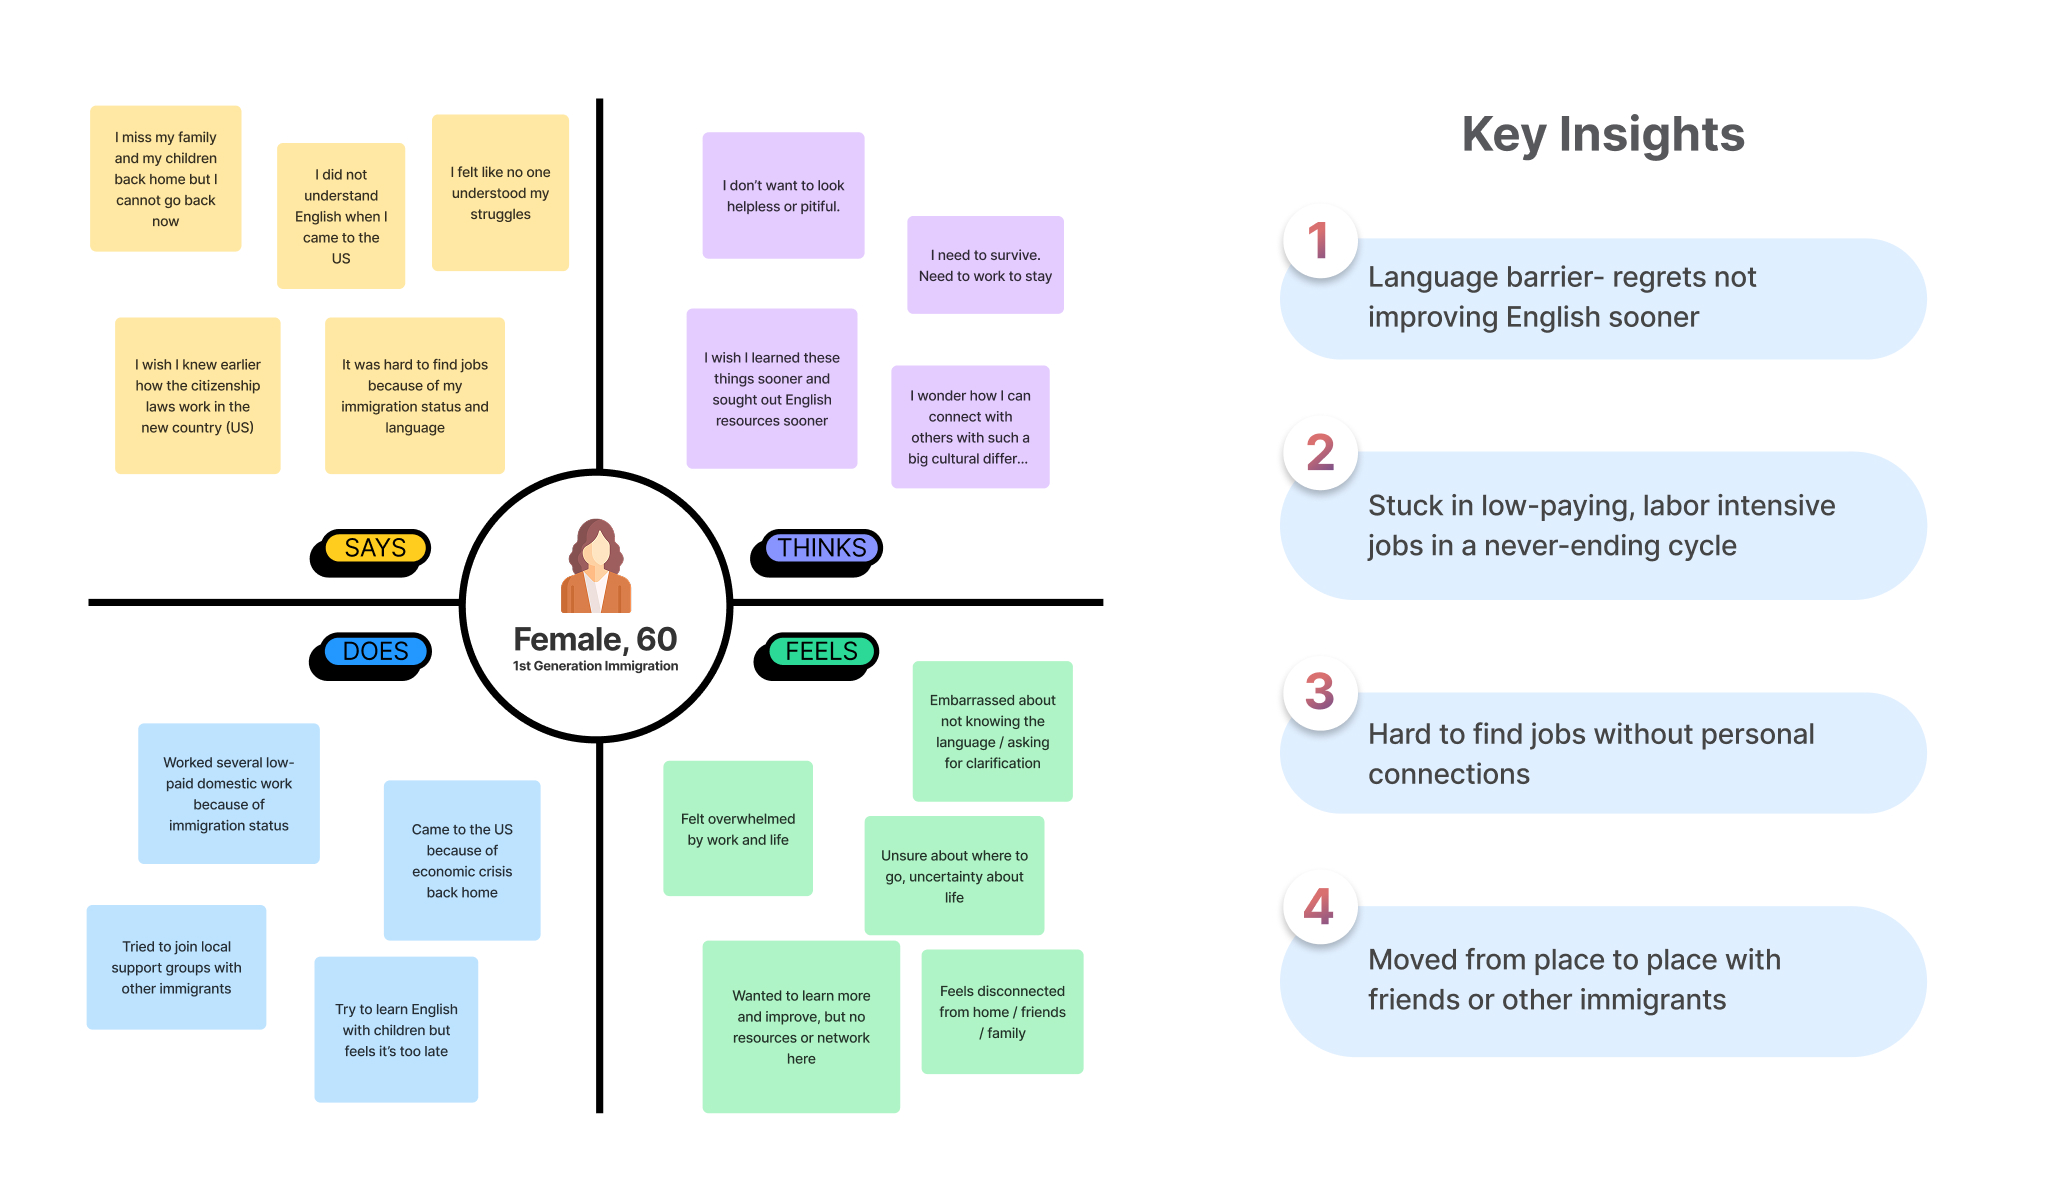
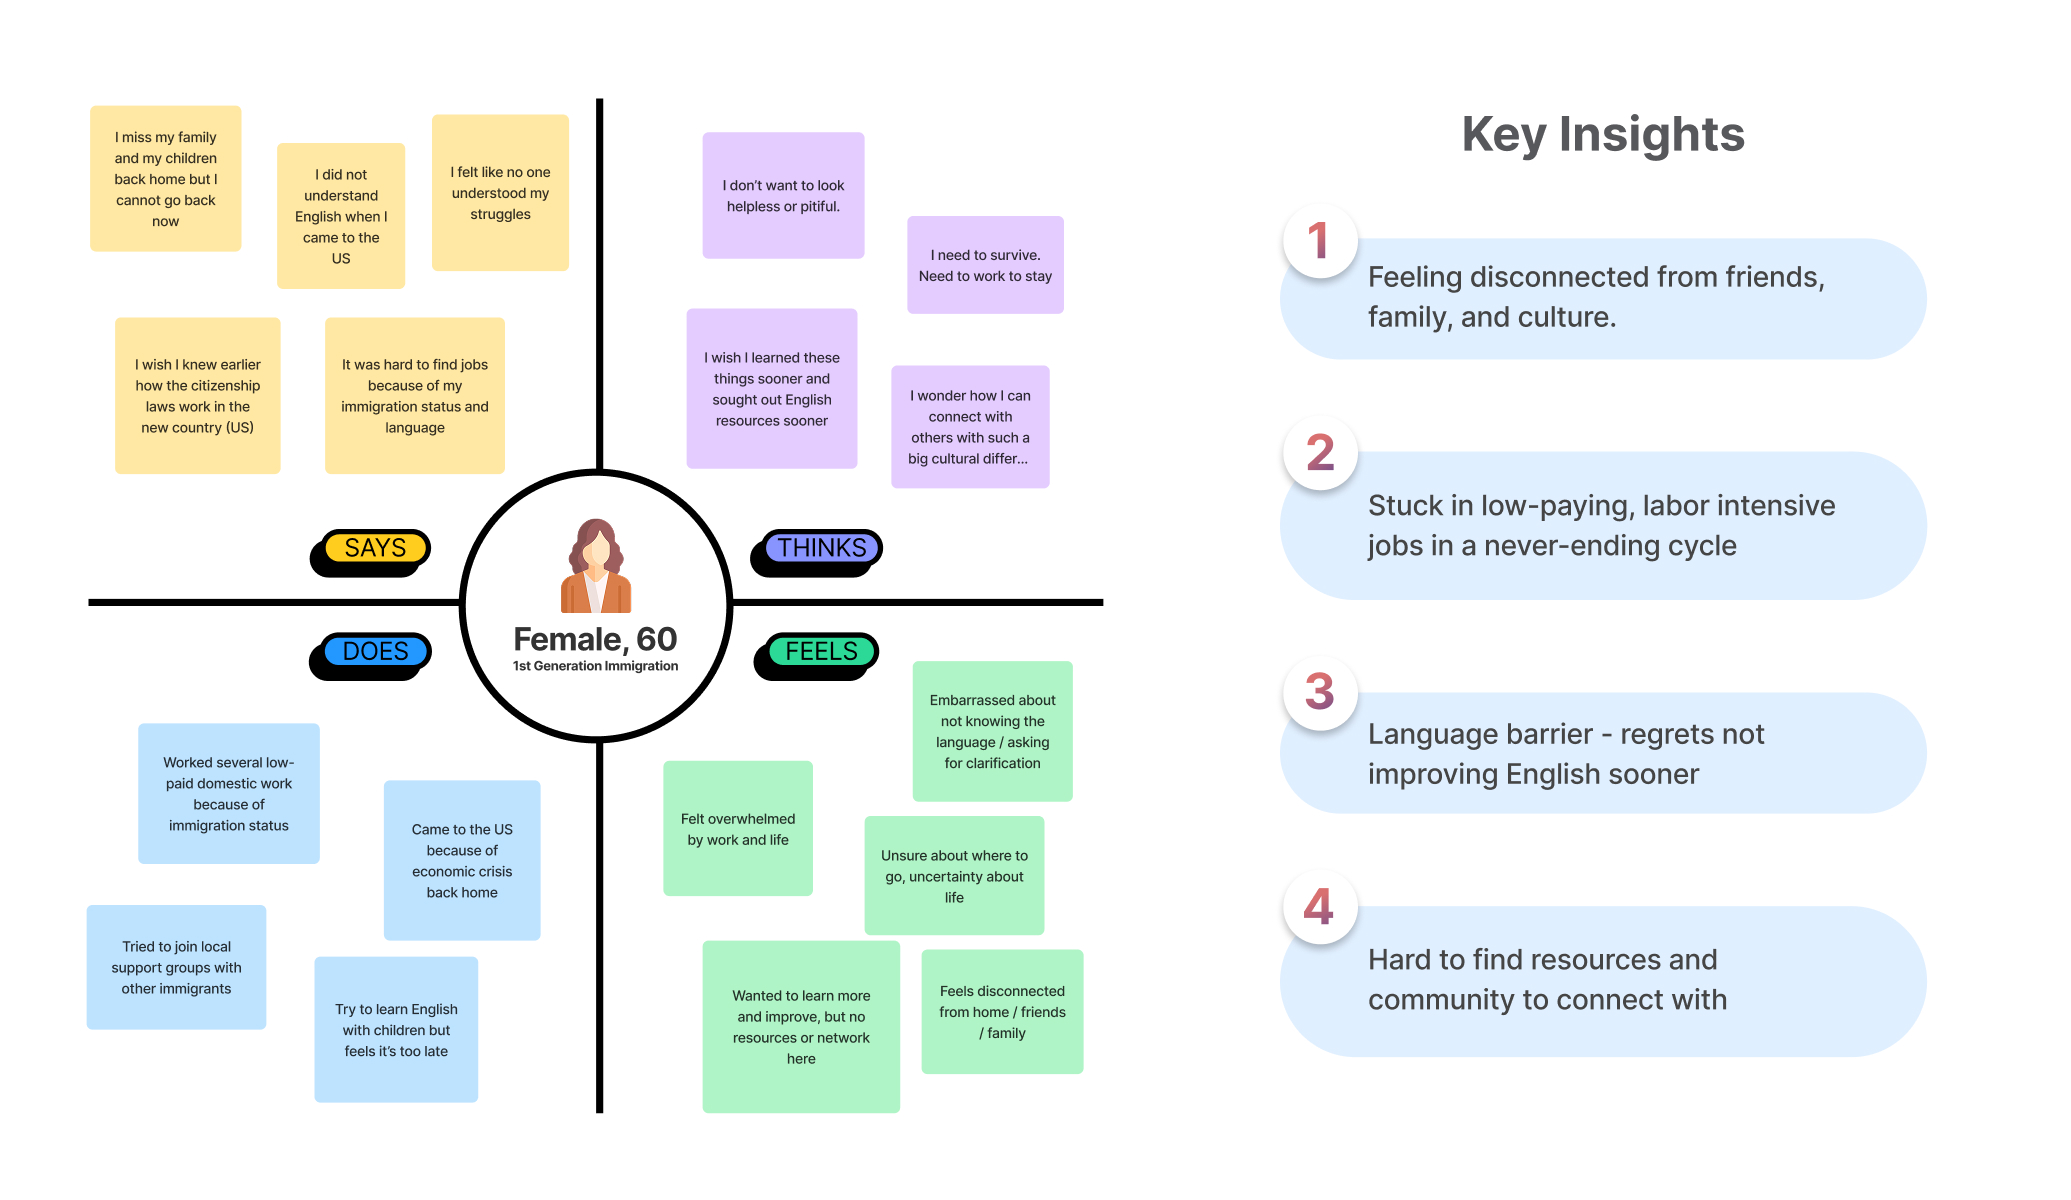
checkpoint

Changed region(s): [[0.649, 0.7708, 0.8653, 0.8633], [0.649, 0.5858, 0.8653, 0.6783], [0.649, 0.2158, 0.8962, 0.2775]]

diff --git a/src/jsx/pages/projectPages/simplyspeak.jsx b/src/jsx/pages/projectPages/simplyspeak.jsx
@@ -18,7 +18,7 @@ function SimplySpeak(props) {
                 <p> Born from a 3 week design jam where the goal was to design to aid refugees, our team focused on our own experiences with first generation immigrant parents and the stuggles we've witnessed with language barriers and employment. </p>
 
                 <ZoomImg imgSrc={"img/ss-final.jpg"}/>
-                
+
                 <p> SimplySpeak is an app designed to specifically for English as a second language users. Focused primarily on career prepartion with secondary language assistance, SimpleSpeak carves a niche with its highly applicable lessons and a community-based style of learning. </p>
 
                 <hr/>
@@ -30,28 +30,48 @@ function SimplySpeak(props) {
                 </InfoHighlight>
 
                 <br/><br/>
-                <h6 className="subheading">Problem definition</h6>
-                <h2>Finding a Niche</h2>
+                
+                <h6 className="subheading">Need finding</h6>
+                <h2>User Research</h2>
 
                 <p>We started our primary research by conducting 6 interviews. Due to time constraints, we expanded our interview pool to include immigrants and users at risk of displacement from their countries.  </p>
                 <ZoomImg imgSrc={"img/ss-interviews.jpg"}/>
 
-                <ZoomImg imgSrc={"img/ss-empathy-map.jpg"}/>
 
+                We synthesized our findings into empathy maps and key insights.
+                <ZoomImg imgSrc={"img/ss-empathy-map.jpg"}/>
+                
+                <p>During our first brainstorm, we focused on the issue of <b>connection</b>. We explored the idea of a website highlighting immigrant voices, using quilt-weaving as a metaphor for community. </p>
+                <ZoomImg imgSrc={"img/ss-brainstorming.jpg"} alt={"Initial scrapped idea as a solution to the prompt."}/>
+                
+                <p>However we found this idea to be not very novel or helpful. Direct donation platforms, like GoFundMe, already existed where users could tell their own stories.</p>
+                
+                <hr/>
+
+                <h6 className='subheading'>Pivoting</h6>
+                <h2>Carving a Niche</h2>
+                <p>We went back to talk with our interviewees in more depth, honed in on <b>3 reoccurring issues</b>, and created user personas to guide our design process.</p>
+
+                
                 <InfoHighlight 
                 infoHighlightItems={[
-                    { label:"Need to be heard", description:"Users want their voices and stories heard and their struggles recognized."},
-                    { label:"Language barriers", description:"Language barriers are major obstacles when resettling into new countries."},
+                    { label:"Community", description:"They feel disconnected from loved ones and struggle to build new community."},
+                    { label:"Language barriers", description:"Language barriers make day-to-day life difficult. Many want to improve their English."},
                     { label:"Trouble job seeking", description:"Job searching in a new country is challenging without connections and resources."},
                     ]}>
                 </InfoHighlight>
 
-                
-                <p>During our first brainstorming, we dabbled with the idea of a website highlighting immigrant stories, centered around themes of quilt-weaving and connectedness. </p>
-                <ZoomImg imgSrc={"img/ss-brainstorming.jpg"} alt={"Initial scrapped idea as a solution to the prompt."}/>
-                
-                <p>However we quickly found the idea to be not very novel or helpful. Direct donation platforms, like GoFundMe, already existed where users could tell their own stories.</p>
-                <p>So we set out to re-examine the prompt and interview notes.</p>
+                <ImgText
+                    imgSrc={"img/persona-woman-2.png"} 
+                    imgWidth={"200"}
+                    imgPosition={"left"}>
+                    <h6 className='subheading'>User persona</h6>
+                    <h2>Vera immigrated to the United States a year ago</h2>
+                    <p>She has completed ESL courses and is now trying to find employment. After several unsuccessful interviews where she struggled to answer interview questions, she looks for better resources to prepare herself.</p>
+                </ImgText>
+
+                <p>Finally, we settle on the direction of a <b>community-based career preparation app</b> with secondary language help. </p>
+
 
                 <hr/> 
                 <ImgText 

diff --git a/src/jsx/pages/projectPages/mavisVehiclePages.jsx b/src/jsx/pages/projectPages/mavisVehiclePages.jsx
@@ -14,7 +14,7 @@ function MavisVehiclePages(props) {
                 <h2>New Entry Points Into Tire Buying </h2>
                 <p>Most customers with limited knowledge of tires will search their vehicle name when looking for replacement tires. Mavis.com does not currently provide any entry points onto the site for these customers.  </p>
                 <ImgText
-                    imgSrc={"img/persona-woman-2.png"} 
+                    imgSrc={"img/persona-adult-1.png"} 
                     imgWidth={"200"}
                     imgPosition={"left"}
                     title={"Clara is looking to replace her daughter's tires"}>